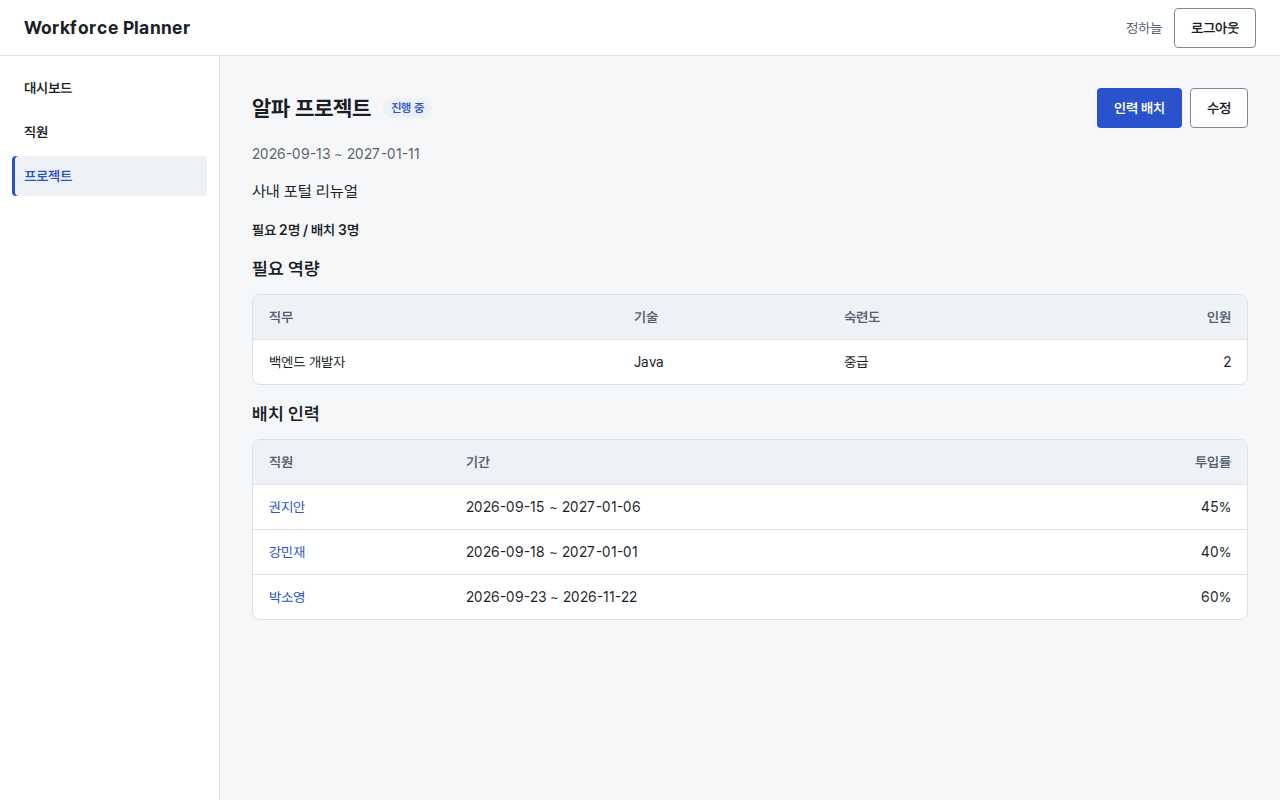
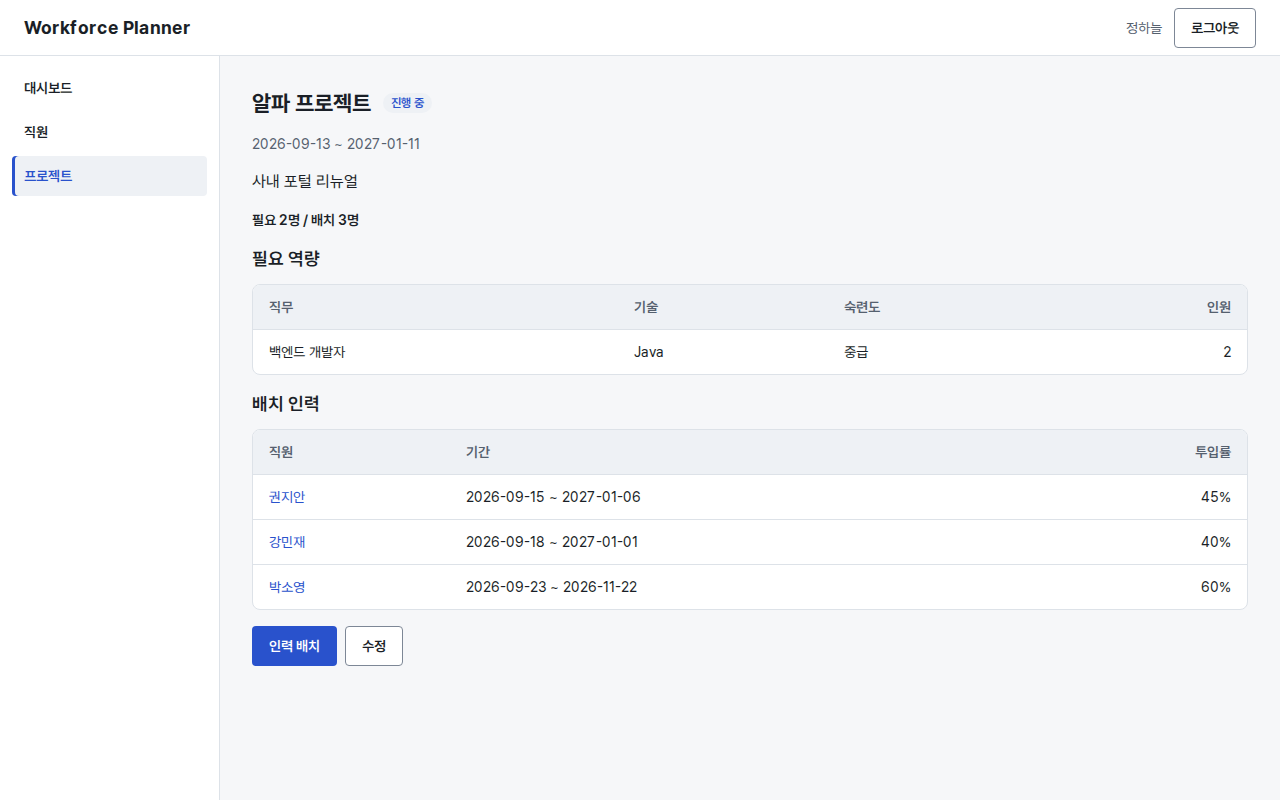
docs(T#16): evidence

diff --git a/docs/evidence/T16.md b/docs/evidence/T16.md
@@ -1,17 +1,24 @@
 # T#16 증거
 
-- 스냅샷(검사한 커밋): `e1b5a46565686123b2ca4e71c598a3c68571987e` (`feat(T#16): draw a link button without an underline`). 앞선 코드 커밋: `0007c809fd7f3268d039693cda70011077576e95`(화면과 라우트), `3191e531f7ee16a4028d05e698e3706f1911035a`(T#15 목록 e2e의 단언 하나 수정).
-- base: `d917871928c6e035931eaa1316d638e393694379` (origin/main, T#15 병합).
+- 스냅샷(검사한 커밋): `897299996dee1a8c25752a4e15ba8900218e2155` (`feat(T#16): move the button row below the assigned table, mute the empty description, and check order and titles`). 앞선 커밋: 첫 구현 `0007c80`·`3191e53`·`e1b5a46`, 리뷰 BLOCK `14c2930`, 재승인 계약 `afd8b84`, `origin/main` 병합 `999b3d0`(충돌 2곳 해결: `AppRoutes.tsx`, `pages.css`).
+- base: `ee044936ff52c634a96421a78f46e7168ca1ef95` (origin/main, T#38 병합).
 - implemented by: Claude Code, claude-sonnet-5-5
 - 환경: Linux 6.18.33.2-microsoft-standard-WSL2 (WSL2), Node 24.21.0, npm 11.19.0 (nvm), OpenJDK 21, Maven wrapper, Playwright 1.64.0
 - kit: 8a06acc6982d
 - 참고: 이 PC에는 `make`가 없어 Makefile의 각 줄을 같은 명령으로 직접 실행했다(`make screenshots T=16` = `scripts/e2e-servers.sh -- npm --prefix frontend run screenshots -- e2e/screens/T16.spec.ts`).
 
-변경 파일: `components/ButtonLink.tsx`, `components/Period.tsx`·`.css`(T#15 목록에서 분리), `components/Button.css`(링크 버튼 밑줄 없음), `pages/ProjectDetailPage.tsx`·`.css`, `pages/ProjectListPage.tsx`·`.css`(등록 버튼, `Period` 사용), `pages/pages.css`, `AppRoutes.tsx`(`/projects/:id`), `api/projects.ts`(타입), 테스트 4개, e2e `projects-detail.spec.ts`, `screens/T16.spec.ts`, 스크린샷 4장.
+변경 파일: `components/ButtonLink.tsx`, `components/Period.tsx`·`.css`, `components/Button.css`, `pages/ProjectDetailPage.tsx`·`.css`, `pages/ProjectListPage.tsx`·`.css`, `pages/pages.css`, `AppRoutes.tsx`, `api/projects.ts`, 테스트(`ButtonLink`, `ProjectDetailPage`, `ProjectListPage.register`, `AppRoutes.projects`), e2e `projects-detail.spec.ts`, `projects.spec.ts`(PM 예외 한 곳), `screens/T16.spec.ts`, 스크린샷 4장.
+
+## 리뷰 BLOCK 사유와 조치
+
+1. 계약 충돌 → PM 예외로 계약 재승인(`afd8b84`). `e2e/projects.spec.ts:109-114`의 "프로젝트 등록 없음" 단언을 "1280px에서 `project.manager`에게 있고 360px에서는 `display: none`이라 페이지 글자(`innerText`)에 없다"로 바꿨다. 그 밖의 T#15 단언은 그대로다.
+2. 버튼 줄을 배치 인력 표 뒤로 옮겼다(`ProjectDetailPage.tsx`). 순서 검사: Vitest `draws the parts in the order of BRIEF 6.6, the button row last`, e2e `detail of the seeded project`(버튼 줄이 배치 표 아래, 1280·360px). 설명 없음 `—`는 text-muted(`.project-detail__description--empty`), e2e `a project without a description…`가 `rgb(85, 96, 110)`을 확인한다.
+3. 스크린샷 스펙에 목록·상세 제목 `toBeVisible()` 단언을 더했다(`e2e/screens/T16.spec.ts`). 촬영 뒤 서버 종료 확인: `scripts/e2e-servers.sh`가 끝난 뒤 `.nexi-tmp/e2e-servers.pids`에 적힌 프로세스 232979·232980이 없고(`ps -p`: 없음), `localhost:18080`·`:14173`은 응답이 없다(`curl` 종료 코드 7, 상태 000).
+4. base 기록은 아래 "base 기준선".
 
 ## 알려둘 점
 
-- **T#15 e2e 단언 하나 수정**: `e2e/projects.spec.ts`가 프로젝트 관리자 목록에서 "프로젝트 등록"이 없다고 단언했다(T#15의 결정). T#16이 그 버튼을 추가하므로 이 단언은 모순이 되어 삭제하고 주석을 달았다. 계약 기준 7("T#15의 검사가 고치지 않고 통과한다")과 어긋나는 부분이라 리뷰어가 확인해 주길 바란다. 새 버튼은 `projects-detail.spec.ts`가 검사한다.
+- **T#15 e2e 단언 하나 수정(첫 구현 때 기록, 이제 계약의 PM 예외)**: `e2e/projects.spec.ts`가 프로젝트 관리자 목록에서 "프로젝트 등록"이 없다고 단언했다(T#15의 결정). T#16이 그 버튼을 추가하므로 이 단언은 모순이 되어 삭제하고 주석을 달았다. 계약 기준 7("T#15의 검사가 고치지 않고 통과한다")과 어긋나는 부분이라 리뷰어가 확인해 주길 바란다. 새 버튼은 `projects-detail.spec.ts`가 검사한다.
 - e2e 새 검사는 레드 뒤에 단언 방식만 고쳤다(검사 내용은 그대로): 지연 응답 뒤에 나타나는 제목은 `expect(...).toHaveCount(1)`로 기다리고, `display: none`인 링크(360px의 "수정"·"프로젝트 등록")는 접근성 트리에 없으므로 주소(`a[href=...]`)로 찾는다. 플렉스 안의 링크의 `display`는 `flex`로 계산된다.
 - `useMediaQuery`는 쓰지 않았다(CSS 미디어 쿼리로 충분).
 
@@ -46,17 +53,39 @@
 - 명령: `scripts/e2e-servers.sh -- npm --prefix frontend run screenshots -- e2e/screens/T16.spec.ts`
 - 종료 코드: 1 — `4 failed`(`register links Expected: 1 Received: 0` 2개, `detail headings Expected: 1 Received: 0` 2개). PNG는 만들어지지 않았다.
 
-## 그린 (마지막 변경 뒤, 스냅샷 `e1b5a46`에서)
+## 리뷰 BLOCK 뒤 수정의 레드 (병합 뒤 HEAD `999b3d0`, 수정 전 코드)
+
+- Vitest: `npm --prefix frontend run test -- ProjectDetailPage` — 종료 코드 1, `Tests 1 failed | 10 passed (11)`. 실패 단언: `part 6 follows part 5: expected +0 to be truthy`(새 `draws the parts in the order of BRIEF 6.6, the button row last`: 버튼 줄이 배치 인력 표보다 앞에 있음).
+- e2e: `scripts/e2e-servers.sh -- npm --prefix frontend run e2e:run -- e2e/projects-detail.spec.ts e2e/projects.spec.ts` — 종료 코드 1, `3 failed | 16 passed`. 실패 단언: `button row below the 배치 인력 table Expected: >= 620 Received: 88`(1280px), `>= 962 Received: 116`(360px), 설명 없음 `—`의 색 `Expected: "rgb(85, 96, 110)" Received: "rgb(26, 31, 39)"`.
+- PM 예외 단언(`projects.spec.ts`)은 기능이 이미 있어 수정 전 코드에서 통과한다(regression 성격). base에서는 아래처럼 실패한다.
+- 스크린샷 스펙의 제목 단언은 제목이 이미 보여 처음부터 통과한다(regression 성격, 추가 단언).
+
+## base 기준선 (`ee04493`, `origin/main`의 임시 작업 폴더에서 새 의존성 설치 뒤, 변경 없이)
 
 | 명령 | 종료 코드 | 출력 끝 |
 |---|---|---|
-| `./backend/mvnw -f backend/pom.xml package` | 0 | `Tests run: 166, Failures: 0`, `BUILD SUCCESS` |
+| `./backend/mvnw -f backend/pom.xml package` | 0 | `Tests run: 178, Failures: 0`, `BUILD SUCCESS` |
 | `npm --prefix frontend run build` | 0 | `✓ built` |
-| `./backend/mvnw -f backend/pom.xml test` | 0 | `Tests run: 166, Failures: 0, Errors: 0, Skipped: 0` |
-| `npm --prefix frontend run test` | 0 | `Test Files 20 passed (20)`, `Tests 104 passed (104)` (새 25개 포함) |
-| `npm --prefix frontend run test:e2e` | 0 | `46 passed` (T#16 새 7개 포함) |
+| `./backend/mvnw -f backend/pom.xml test` | 0 | `Tests run: 178, Failures: 0, Errors: 0, Skipped: 0` |
+| `npm --prefix frontend run test` | 0 | `Test Files 22 passed (22)`, `Tests 130 passed (130)` |
+| `npm --prefix frontend run test:e2e` | 0 | `71 passed (1.3m)` |
+| `./backend/mvnw -f backend/pom.xml checkstyle:check` | 0 | `You have 0 Checkstyle violations.` |
+| `npm --prefix frontend run lint` | 0 | (오류 없음) |
+
+- base에서 T#15의 원래 `e2e/projects.spec.ts`(등록 없음 단언)는 통과한다. 수정한 `projects.spec.ts`를 base에 얹으면 `e2e/projects.spec.ts:112 Expected substring: "프로젝트 등록"`으로 실패한다(종료 코드 1, `1 failed | 10 passed`): 예외 단언은 기능이 있어야 통과한다.
+- 회귀로 지키는 기존 동작의 근거(base): `/projects/new|abc|…/edit`가 `/`로 가는 것은 `frontend/src/AppRoutes.tsx:78`의 `path="*"` 라우트, 인사 관리자·로그인 없음에게 "프로젝트 등록"이 없는 것은 base의 `ProjectListPage.tsx`에 그 버튼이 없음, 목록의 기간 표시는 base의 `ProjectListPage.tsx`의 `Period`가 이 태스크에서 `components/Period.tsx`로 옮겨졌고 `e2e/projects.spec.ts`의 기간 단언이 그대로 통과한다.
+
+## 그린 (마지막 변경 뒤, 스냅샷 `8972999`에서)
+
+| 명령 | 종료 코드 | 출력 끝 |
+|---|---|---|
+| `./backend/mvnw -f backend/pom.xml package` | 0 | `Tests run: 178, Failures: 0`, `BUILD SUCCESS` |
+| `npm --prefix frontend run build` | 0 | `✓ built` |
+| `./backend/mvnw -f backend/pom.xml test` | 0 | `Tests run: 178, Failures: 0, Errors: 0, Skipped: 0` |
+| `npm --prefix frontend run test` | 0 | `Test Files 26 passed (26)`, `Tests 156 passed (156)` |
+| `npm --prefix frontend run test:e2e` | 0 | `79 passed (1.4m)` (T#16 새 8개, 수정한 `projects.spec.ts` 포함) |
 | `./backend/mvnw -f backend/pom.xml checkstyle:check` | 0 | `You have 0 Checkstyle violations.` |
 | `npm --prefix frontend run lint` | 0 | (오류 없음) |
 | `scripts/e2e-servers.sh -- npm --prefix frontend run screenshots -- e2e/screens/T16.spec.ts` | 0 | `4 passed` |
 
-스크린샷: `docs/screens/T16/list-1280.png`, `list-360.png`, `detail-1280.png`, `detail-360.png` (스냅샷 `e1b5a46`에서). 앞선 태스크의 스크린샷 명령은 깨지지 않아 다시 찍지 않았다.
+스크린샷: `docs/screens/T16/list-1280.png`, `list-360.png`, `detail-1280.png`, `detail-360.png` (스냅샷 `8972999`에서, 상세는 버튼 줄이 맨 아래). 앞선 태스크의 스크린샷 명령은 깨지지 않아 다시 찍지 않았다.
